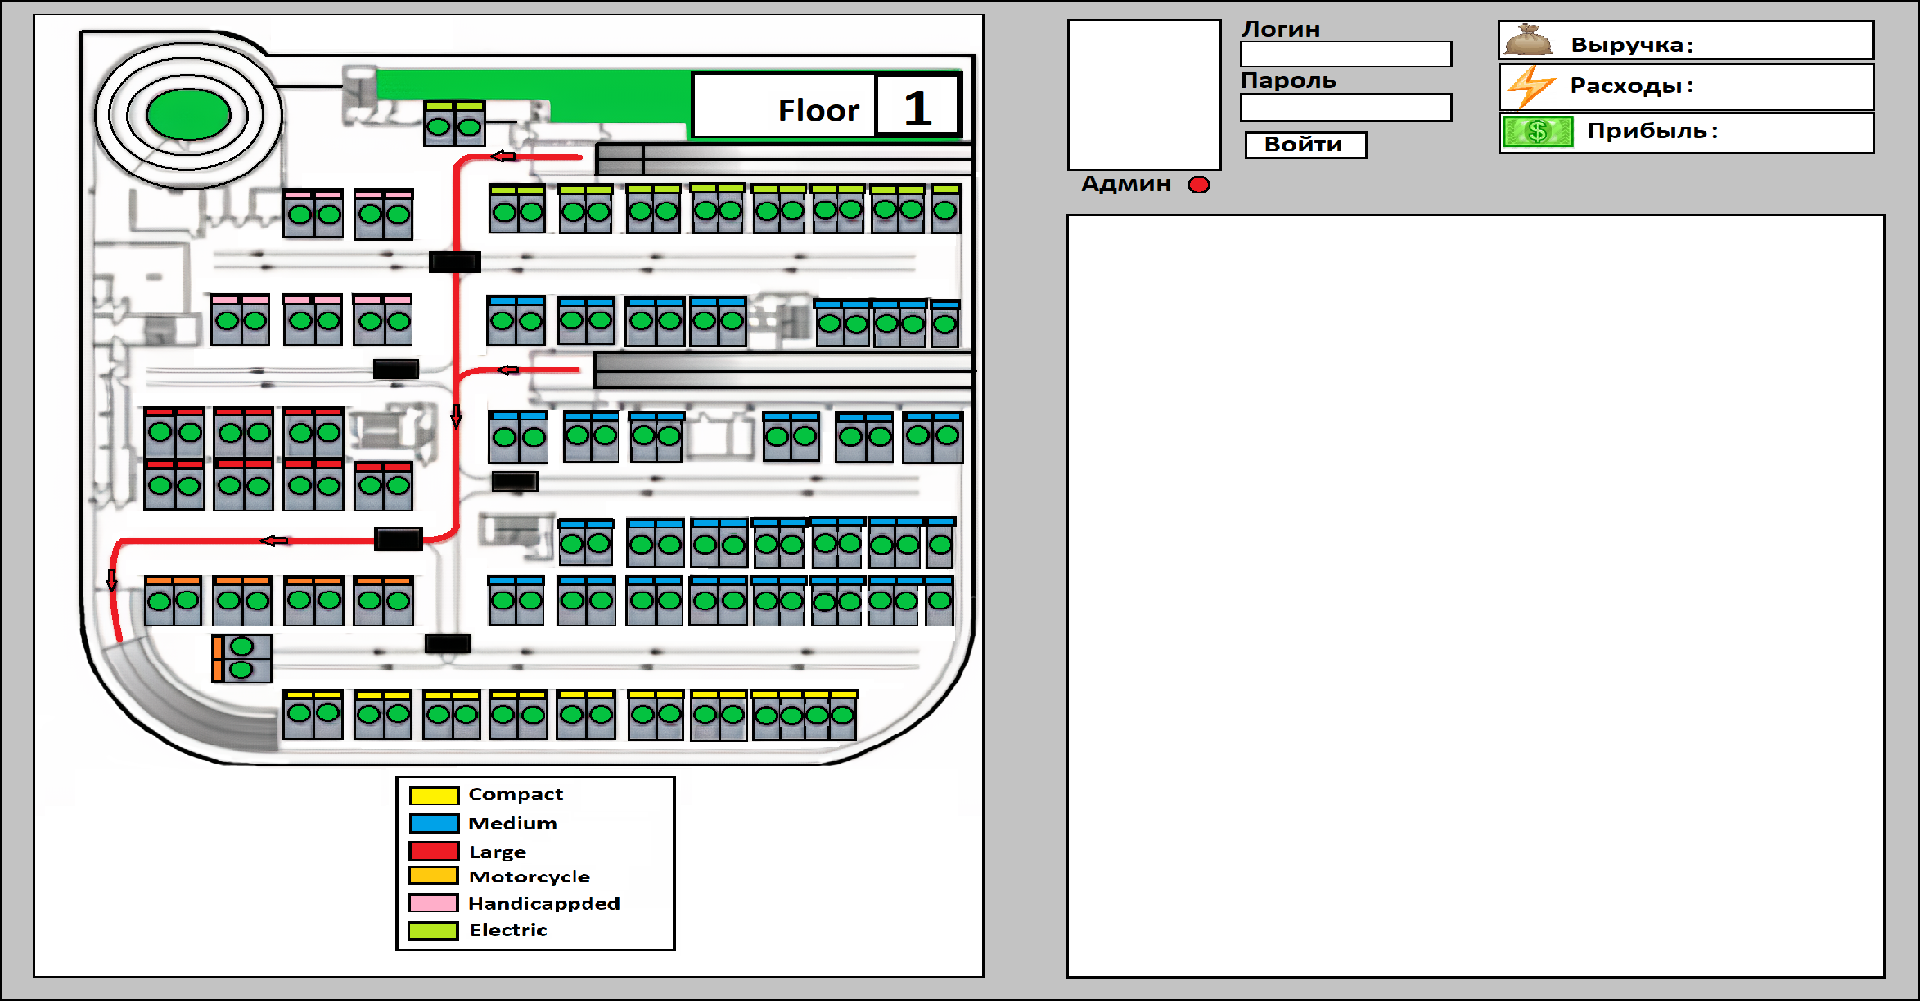
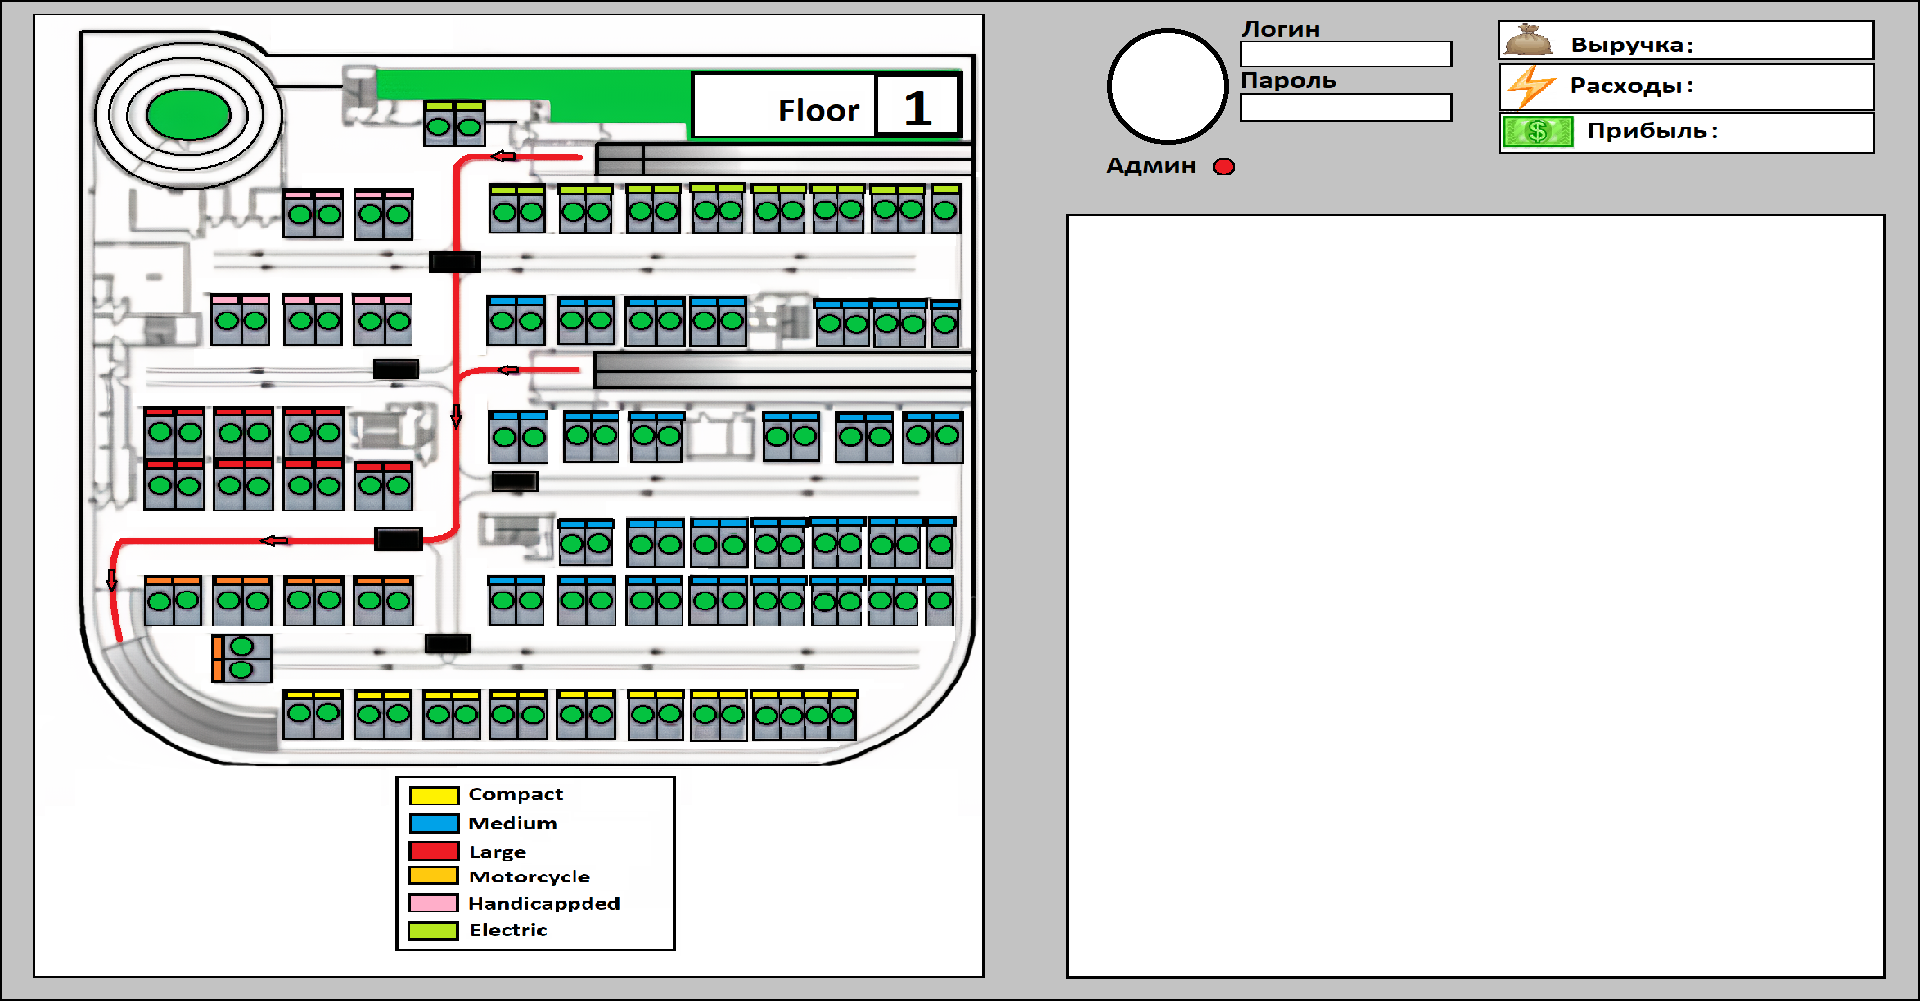
authorization ready

Changed region(s): [[0.5312, 0.0, 0.7188, 0.2166]]

diff --git a/view.cpp b/view.cpp
@@ -1,6 +1,6 @@
 #include "view.h"
 #include "ui_view.h"
-#include <QDebug>
+#include "QMessageBox"
 
 View::View(QWidget *parent) :
     QDialog(parent),
@@ -39,6 +39,7 @@ ui->label2_40,ui->label2_41,ui->label2_42,ui->label2_43,ui->label2_44,ui->label2
     model = new QStandardItemModel(122, 6, this);
     item = new QStandardItem;
     account = new Account;
+    ui->tableView->close();
 }
 
 void View::busy(int const& newPlase, Types::VehicleType const& newType){
@@ -164,6 +165,30 @@ void View::loadInfo(int const& newPlase, std::string const& newLicense, Types::V
             ui->Loot_label->setText(QString(newLoot)+"$");
             ui->Cost_label->setText(QString(newCost)+"$");
             ui->Profit_label->setText(QString(newProfit)+"$");
+}
+
+void View::on_pushButton_clicked()
+{
+    if(account->isAuthorized(ui->loginBox->toPlainText(), ui->passwordBox->toPlainText())==true) {
+        ui->loginBox->clear();
+        ui->passwordBox->clear();
+        ui->warningLabel->close();
+        ui->label->close();
+        ui->adminLed->setPixmap(online);
+        ui->tableView->show();}
+    else{
+        QMessageBox msgBox;
+        msgBox.setText("Логин или пароль были введены неверно");
+        msgBox.exec();
+    }
+}
+
+void View::on_exitButton_clicked()
+{
+   ui->tableView->close();
+   ui->adminLed->setPixmap(isNotFree);
+   ui->warningLabel->show();
+   ui->label->show();
 }
 
 View::~View()

diff --git a/view.h b/view.h
@@ -21,11 +21,17 @@ class View : public QDialog
 
 public:
     explicit View(QWidget *parent = nullptr);
+    bool showInfo(std::string const& newLogin, std::string const& newPassword);
     void busy(int const& newPlase, Types::VehicleType const& newType);
     void free(int const& newPlase, Types::VehicleType const& newType);
     void loadInfo(int const& newPlase, std::string const& newLicense, Types::VehicleType const& newType,
                   std::string const& newStartTime, double const& newAmount, int const& newParkingTime);
     ~View();
+private slots:
+    void on_pushButton_clicked();
+
+    void on_exitButton_clicked();
+
 private:
     Account *account;
     QStandardItemModel *model;

diff --git a/account.cpp b/account.cpp
@@ -1,6 +1,4 @@
 #include "account.h"
-#include <QDebug>
-
 Account::Account()
 {
     dataBase = QSqlDatabase::addDatabase("QSQLITE");
@@ -10,6 +8,11 @@ Account::Account()
     } else {
 
     }
+}
+
+bool Account::isAuthorized(QString const& newLogin, QString const& newPassword){
+    if(QString::compare(newLogin,login)==0 && QString::compare(newPassword,password)==0 ){return true;}
+    else{return false;}
 }
 
 QSqlDatabase Account::getDB()const{

diff --git a/parkinglot.cpp b/parkinglot.cpp
@@ -1,8 +1,6 @@
 #include "parkinglot.h"
 #include "ui_parkinglot.h"
 #include <QDebug>
-#include <QTime>
-#include <windows.h>
 
 ParkingLot::ParkingLot(int const& newNumberOfFloors, int const& newNumberOfCompacts,
                        int const& newNumberOfMediums, int const& newNumberOfLarges,

diff --git a/account.h b/account.h
@@ -9,7 +9,10 @@ class Account
 public:
     Account();
     QSqlDatabase getDB()const;
+    bool isAuthorized(QString const& newLogin, QString const& newPassword);
 private:
+    QString login = "admin";
+    QString password = "admin";
     QSqlDatabase dataBase;
     QSqlQuery sqlQuery;
 };

diff --git a/parkingfloor.cpp b/parkingfloor.cpp
@@ -1,5 +1,5 @@
 #include "parkingfloor.h"
-#include <QDebug>
+
 
 ParkingFloor::ParkingFloor(int const& newNumberOfFloor,  int const& newNumberOfCompacts,
                            int const& newNumberOfMediums, int const& newNumberOfLarges,

diff --git a/parkinglot.h b/parkinglot.h
@@ -1,8 +1,7 @@
 #ifndef PARKINGLOT_H
 #define PARKINGLOT_H
 
-#include <iostream>
-#include <QStandardItem>
+#include "iostream"
 #include "parkingfloor.h"
 #include "entrancepanel.h"
 #include "vehicle.h"

diff --git a/parkingfloor.h b/parkingfloor.h
@@ -1,7 +1,6 @@
 #ifndef PARKINGFLOOR_H
 #define PARKINGFLOOR_H
 
-#include <QStandardItem>
 #include "parkingspot.h"
 #include "compactspot.h"
 #include "mediumspot.h"

diff --git a/compactspot.cpp b/compactspot.cpp
@@ -1,5 +1,4 @@
 #include "compactspot.h"
-#include <QDebug>
 
 CompactSpot::CompactSpot(int const& newNumberOfSpot)
 {

diff --git a/parkingspot.h b/parkingspot.h
@@ -2,7 +2,6 @@
 #define PARKINGSPOT_H
 
 #include "Types.h"
-#include <QStandardItem>
 
 class ParkingSpot
 {
